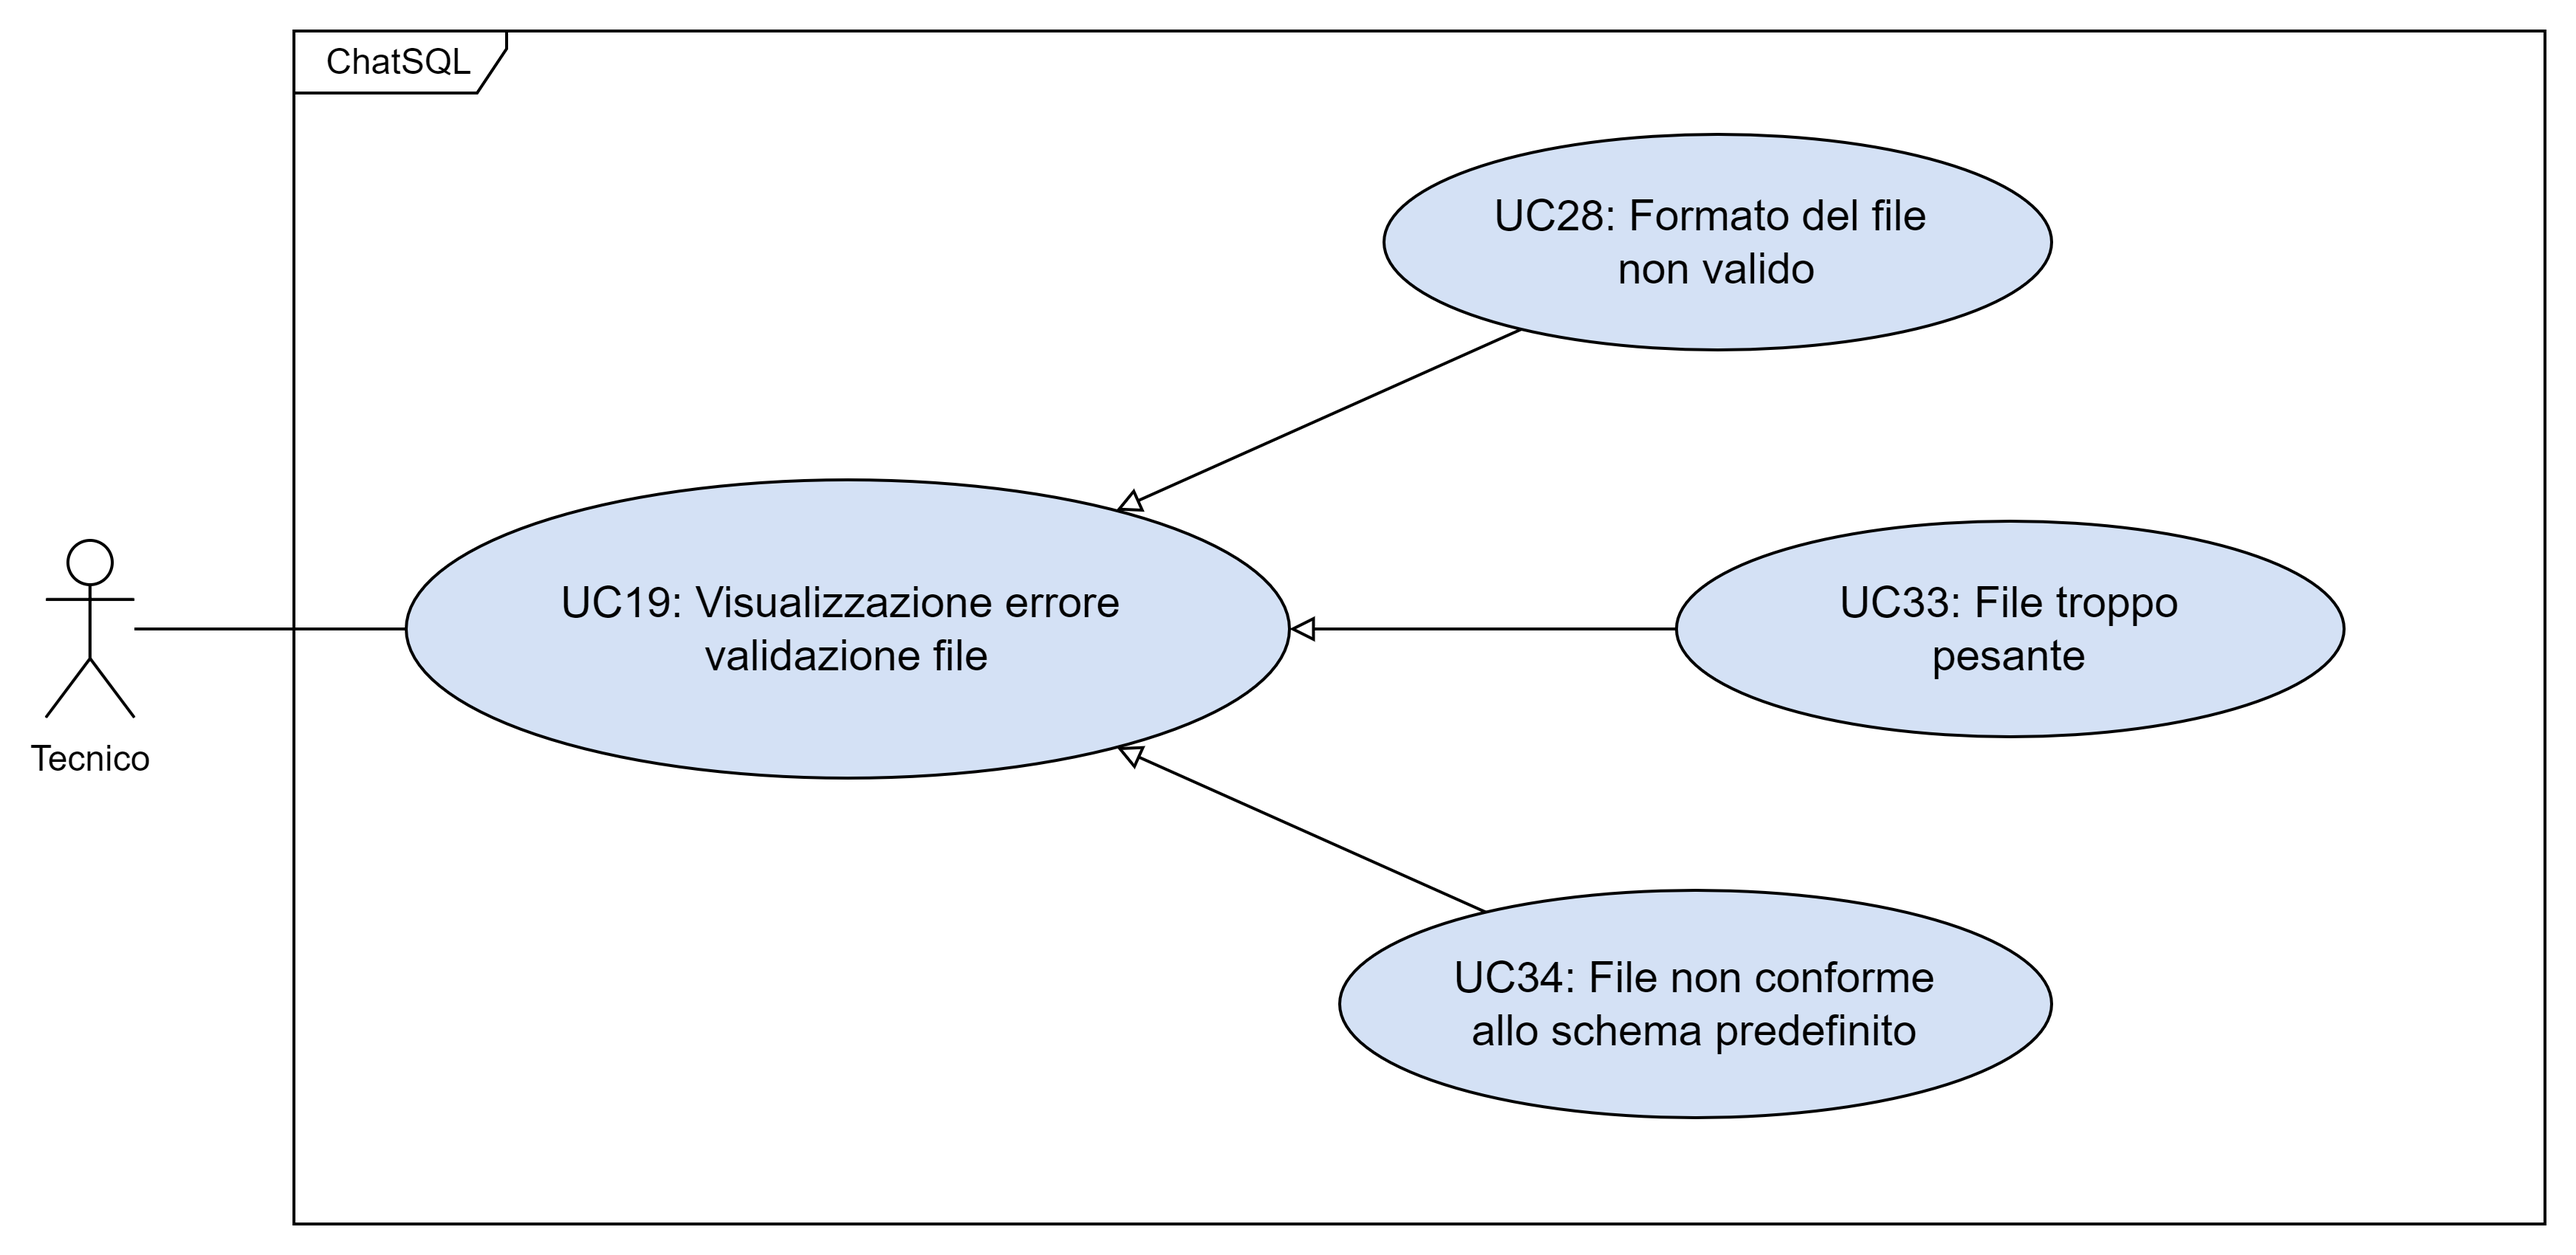
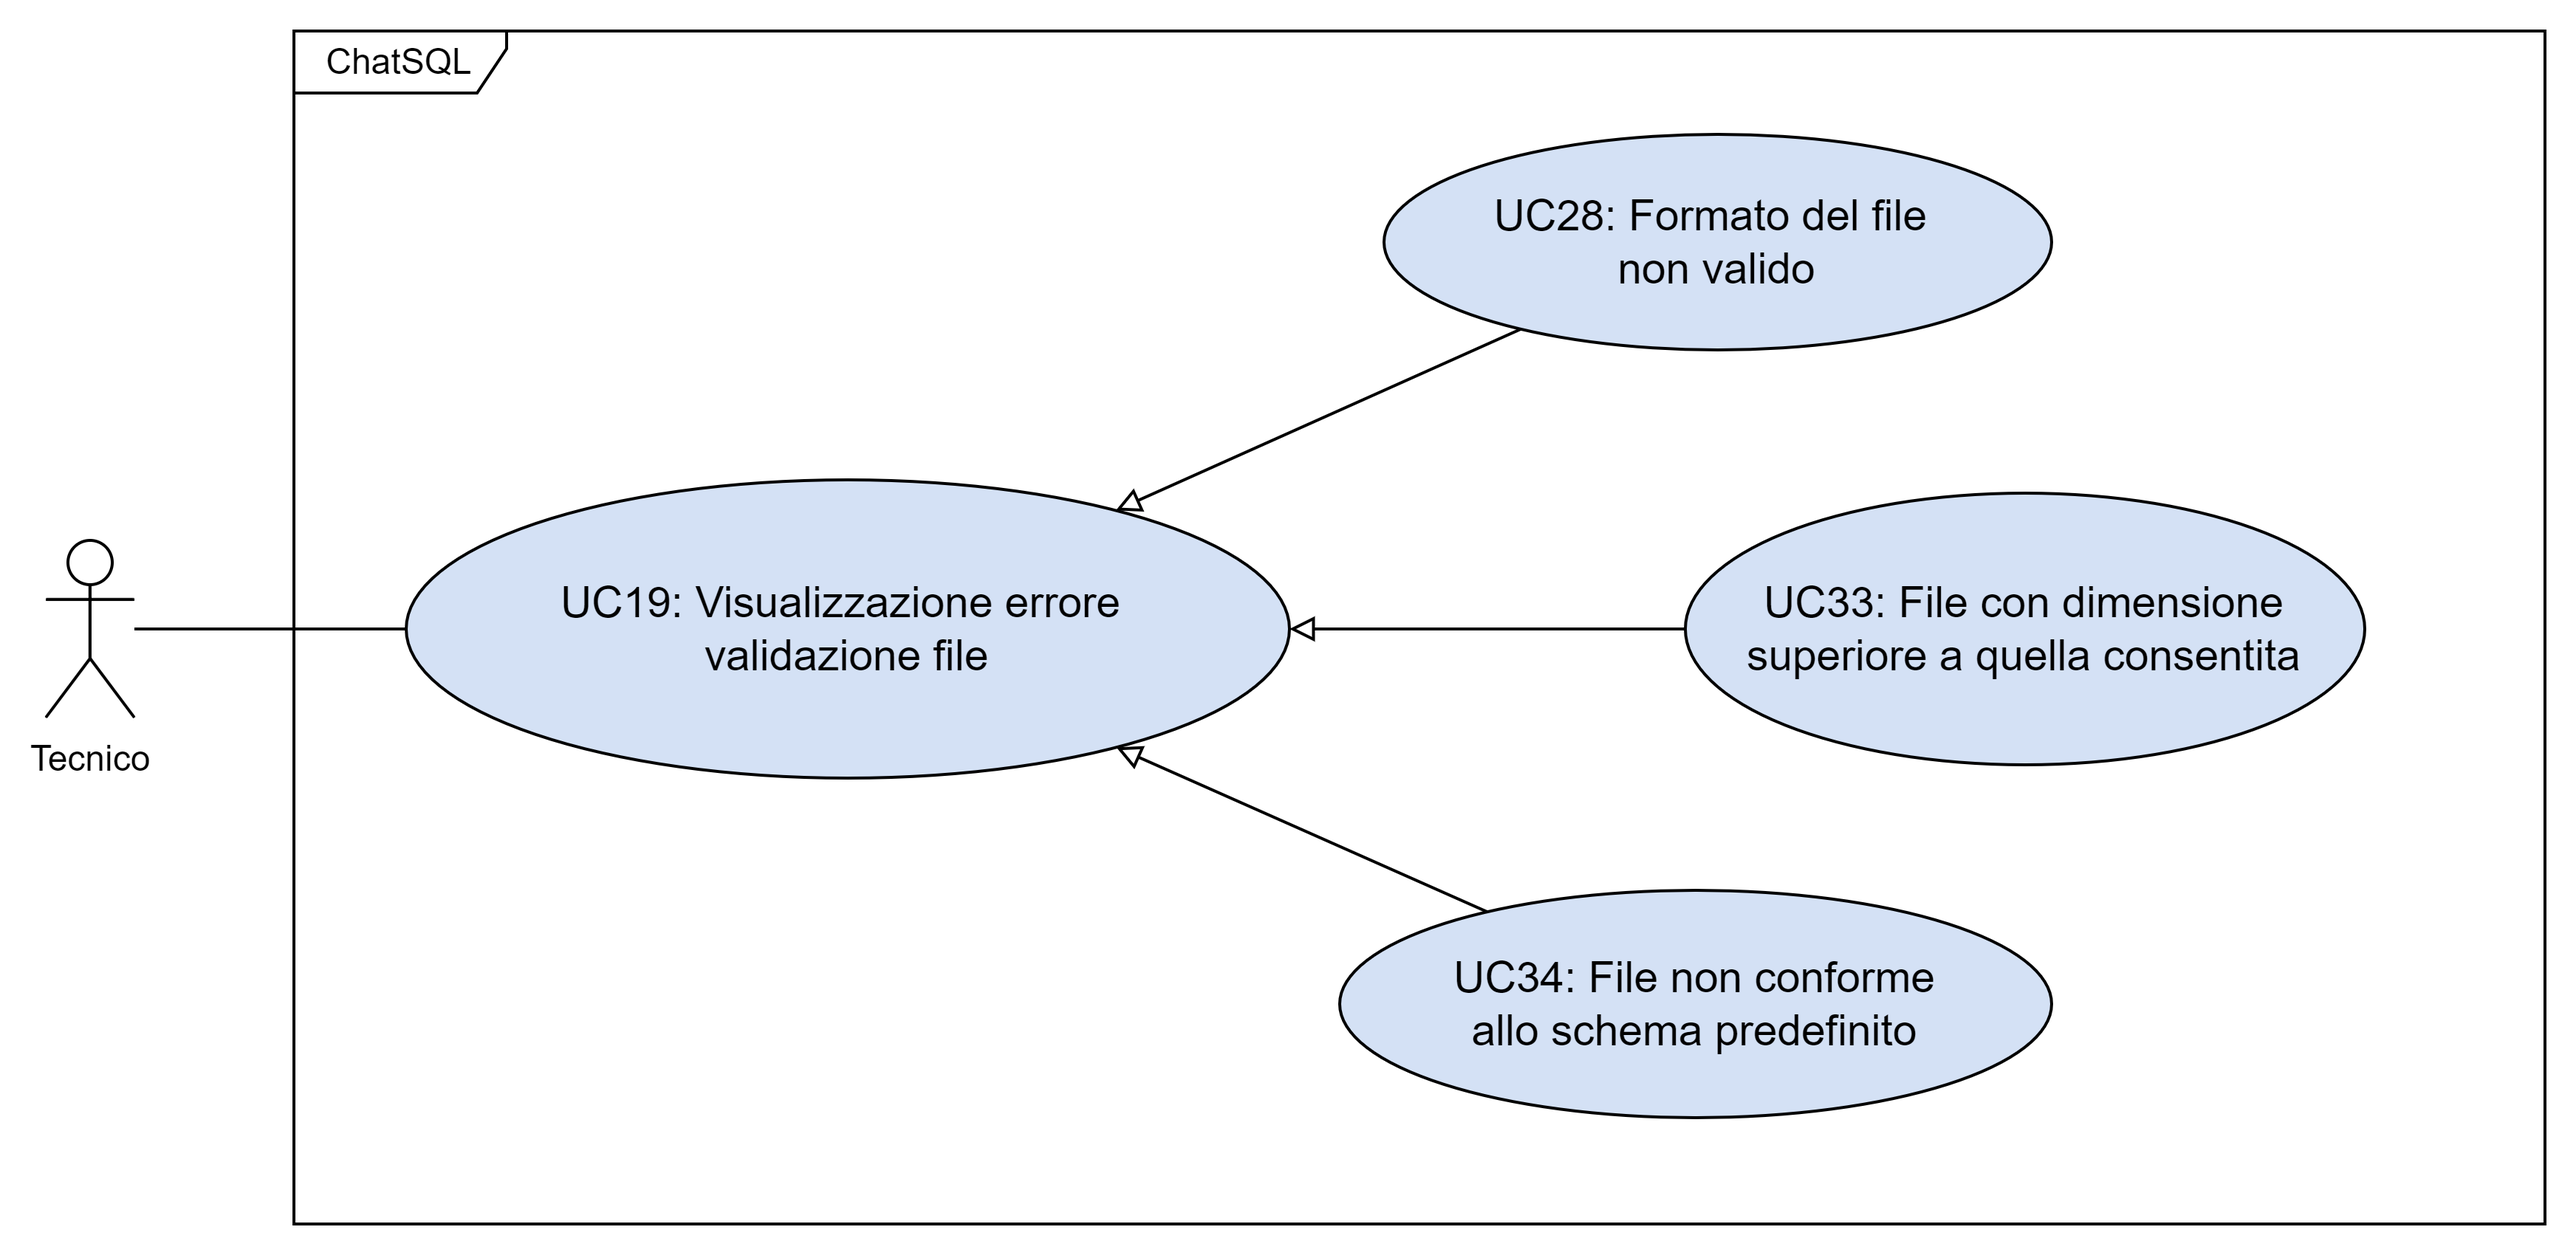
aggiornamento adr

diff --git a/sources/documents/2_RTB/AnalisiDeiRequisiti/requisiti.tex b/sources/documents/2_RTB/AnalisiDeiRequisiti/requisiti.tex
@@ -43,11 +43,11 @@
     \hline
 		\endlastfoot
 
-    \textbf{RF.O.1} & Il Tecnico deve poter effettuare il login. & \hyperref[UC1]{UC1}, Verbale esterno 2024-04-09, Verbale interno\\
+    \textbf{RF.O.1} & L'Utente deve poter effettuare il login. & \hyperref[UC1]{UC1}, Verbale esterno 2024-04-09, Verbale interno\\
     \hline
-    \textbf{RF.O.1.1} & Il Tecnico deve poter inserire uno username in fase di autenticazione. & \hyperref[UC1point1]{UC1.1}, Verbale interno\\
+    \textbf{RF.O.1.1} & L'Utente deve poter inserire uno username in fase di autenticazione. & \hyperref[UC1point1]{UC1.1}, Verbale interno\\
     \hline
-    \textbf{RF.O.1.2} & Il Tecnico deve poter inserire una password in fase di autenticazione. & \hyperref[UC1point2]{UC1.2}, Verbale interno\\
+    \textbf{RF.O.1.2} & L'Utente deve poter inserire una password in fase di autenticazione. & \hyperref[UC1point2]{UC1.2}, Verbale interno\\
     \hline
     \textbf{RF.O.2} & Il sistema deve restituire un messaggio d'errore in caso di fallimento del login. & \hyperref[UC2]{UC2}\\
     \hline
@@ -352,7 +352,7 @@ Di seguito sono illustrate le corrispondenze fonte - requisito, raggruppate per 
     % verbali
     Verbali esterni & RF.O.1, RF.D.7, RF.O.22, RF.D.40, RF.O.45, RF.O.46, RF.D.52 \\
     \hline
-    Verbali interni & RF.O.1, RF.O.1.1, RF.O.1.2, RF.O.23, RF.O.26, RF.O.36, RF.O.41, RF.O.47, RF.O.48, RF.O.49, RF.O.50, RF.O.51, RF.OP.53, RF.O.55, RF.O.56, RF.O.57, RF.OP.58, RF.O.59, RF.O.60, RF.O.61, RF.OP.62 \\
+    Verbali interni & RF.O.1, RF.O.1.1, RF.O.1.2, RF.O.23, RF.O.26, RF.O.36, RF.O.41, RF.O.47, RF.O.48, RF.O.49, RF.O.50, RF.O.51, RF.OP.53, RF.O.55, RF.O.56, RF.O.57, RF.OP.58, RF.O.59, RF.O.60, RF.D.61, RF.OP.62 \\
     \hline
     % casi d'uso
     \hyperref[UC1]{UC1} & RF.O.1 \\
@@ -541,9 +541,9 @@ Di seguito sono illustrate le corrispondenze fonte - requisito, raggruppate per 
     % capitolato
     
     % verbali
-    Verbali esterni & RV.O.1, RV.O.4 \\
+    Verbali esterni & RV.O.1, RV.O.5 \\
     \hline
-    Verbali interni & RV.O.2, RV.O.3, RV.O.5, RV.O.6, RV.O.7, RV.O.8, RV.O.9, RV.O.10, RV.O.11, RV.O.12, RV.O.13, RV.O.14, RV.O.15, RV.OP.16 \\
+    Verbali interni & RV.O.2, RV.O.3, RV.O.4, RV.O.6, RV.O.7, RV.O.8, RV.O.9, RV.O.10, RV.O.11, RV.O.12, RV.D.13, RV.O.14, RV.D.15, RV.OP.16 \\
   \end{longtable}
 \end{adjustwidth}
 \egroup
@@ -557,13 +557,13 @@ Di seguito sono illustrate le corrispondenze fonte - requisito, raggruppate per 
     \hline
 		\textbf{Requisito} & \textbf{Obbligatorio} & \textbf{Desiderabile} & \textbf{Opzionale} & \textbf{Totale} \\ 
     \hline
-    Funzionale & 65 & 3 & 5 & 73 \\
+    Funzionale & 70 & 4 & 7 & 81 \\
     \hline
-    Di qualità & 7 & 3 & 1 & 11 \\
+    Di qualità & 5 & 2 & 0 & 7 \\
     \hline 
-    Di vincolo & 17 & 2 & 2 & 21 \\
+    Di vincolo & 13 & 2 & 1 & 16 \\
     \hline
-    \textbf{Totale} & 89 & 8 & 8 & \textbf{105} \\ 
+    \textbf{Totale} & 88 & 8 & 8 & \textbf{104} \\ 
     \hline
   \end{tabular}
   \caption{Tabella di riepilogo dei requisiti}

diff --git a/sources/documents/2_RTB/AnalisiDeiRequisiti/registro_modifiche.tex b/sources/documents/2_RTB/AnalisiDeiRequisiti/registro_modifiche.tex
@@ -23,7 +23,8 @@
 		\endlastfoot
 
 		% IN ORDINE DALLA MODIFICA PIÙ RECENTE ALLA PIÙ VECCHIA
-  		1.0.0 & 2024-07-13 & \mattia & \mattia & Approvazione e rilascio del documento \\
+		1.0.1 & 2024-07-25 & \riccardo, \tommaso & \mattia & Aggiornamento post colloquio RTB \\
+  	\hline 1.0.0 & 2024-07-13 & \mattia & \mattia & Approvazione e rilascio del documento \\
 		\hline 0.2.0 & 2024-07-05 & \riccardo & \mattia & Revisione generale dei casi d'uso e requisiti \\
 		\hline 0.1.3 & 2024-06-24 & \riccardo, \marco, \raul & \mattia, \tommaso & Revisione requisiti funzionali \\
 		\hline 0.1.2 & 2024-06-23 & \raul & \marco, \mattia, \tommaso & Aggiunto \hyperref[UC25]{UC25} \\

diff --git a/sources/documents/2_RTB/AnalisiDeiRequisiti/usecase/uc13.tex b/sources/documents/2_RTB/AnalisiDeiRequisiti/usecase/uc13.tex
@@ -53,7 +53,7 @@ Il Tecnico vuole aggiungere un nuovo \glossario{dizionario dati} nell'applicazio
   \item Visualizzazione errore validazione file (\hyperref[UC19]{UC19}):
   \begin{itemize}
     \item Extension point: Errore nella validazione del file scelto come \glossario{dizionario dati};
-    \item Condition: Formato del file non valido, file troppo pesante, file non conforme allo schema predefinito.
+    \item Condition: Formato del file non valido, file con dimensione superiore a quella consentita, file non conforme allo schema predefinito.
   \end{itemize}
   \item Visualizzazione errore nome dizionario dati (\hyperref[UC31]{UC31}):
   \begin{itemize}

diff --git a/sources/documents/2_RTB/AnalisiDeiRequisiti/usecase/uc20.tex b/sources/documents/2_RTB/AnalisiDeiRequisiti/usecase/uc20.tex
@@ -52,6 +52,6 @@ Il Tecnico vuole modificare il file di configurazione di un \glossario{dizionari
   \item Visualizzazione errore validazione file (\hyperref[UC19]{UC19}):
   \begin{itemize}
     \item Extension point: Errore nella validazione del file;
-    \item Condition: Formato del file non valido, file troppo pesante, file non conforme allo schema predefinito.
+    \item Condition: Formato del file non valido, file con dimensione superiore a quella consentita, file non conforme allo schema predefinito.
   \end{itemize}
 \end{itemize}

diff --git a/sources/documents/2_RTB/AnalisiDeiRequisiti/usecase/uc3.tex b/sources/documents/2_RTB/AnalisiDeiRequisiti/usecase/uc3.tex
@@ -42,7 +42,7 @@ L'Utente desidera ricevere un \glossario{prompt} in risposta alla sua richiesta.
 \paragraph*{Inclusioni}
 \begin{itemize}
   \item Selezione \glossario{dizionario dati} (\hyperref[UC4]{UC4});
-  \item Inserimento richiesta in linguaggio naturale (\hyperref[UC3]{UC3});
+  \item Inserimento richiesta in linguaggio naturale (\hyperref[UC5]{UC5});
   \item Selezione lingua (\hyperref[UC7]{UC7});
   \item Selezione DBMS (\hyperref[UC26]{UC26}).
 \end{itemize}

diff --git a/sources/model/global.tex b/sources/model/global.tex
@@ -33,7 +33,7 @@
 
 % La versione dei documenti deve essere definita qui in global, perchè serve anche agli altri documenti
 \newcommand{\VersioneNP}{0.0.15}  % Norme di Progetto
-\newcommand{\VersioneAR}{1.0.0}  % Analisi dei Requisiti
+\newcommand{\VersioneAR}{1.0.1}  % Analisi dei Requisiti
 \newcommand{\VersionePQ}{0.2.0}  % Piano di Qualifica
 \newcommand{\VersioneG}{1.0.1}   % Glossario
 \newcommand{\VersionePP}{0.1.9}  % Piano di Progetto

diff --git a/sources/documents/2_RTB/AnalisiDeiRequisiti/usecase/uc1.tex b/sources/documents/2_RTB/AnalisiDeiRequisiti/usecase/uc1.tex
@@ -22,7 +22,7 @@ Utente
 \paragraph*{Postcondizioni}
 \begin{itemize}
   \item La procedura di autenticazione si è conclusa con successo;
-  \item L'Utente visualizza le funzionalità aggiuntive nell'interfaccia.  
+  \item L'Utente acquisisce il ruolo di Tecnico e visualizza le funzionalità aggiuntive nell'interfaccia.  
 \end{itemize}
 
 \paragraph*{Trigger}

diff --git a/sources/documents/2_RTB/AnalisiDeiRequisiti/usecase/uc19.tex b/sources/documents/2_RTB/AnalisiDeiRequisiti/usecase/uc19.tex
@@ -33,6 +33,6 @@ Tecnico
 \paragraph*{Specializzazioni}
 \begin{itemize}
   \item Formato del file non valido (\hyperref[UC28]{UC28});
-  \item File troppo pesante (\hyperref[UC33]{UC33});
+  \item File con dimensione superiore a quella consentita (\hyperref[UC33]{UC33});
   \item File non conforme allo schema predefinito (\hyperref[UC34]{UC34}).
 \end{itemize}

diff --git a/sources/documents/2_RTB/AnalisiDeiRequisiti/usecase/uc33.tex b/sources/documents/2_RTB/AnalisiDeiRequisiti/usecase/uc33.tex
@@ -1,4 +1,4 @@
-\subsubsection{UC33 - File troppo pesante}\label{UC33}
+\subsubsection{UC33 - File con dimensione superiore a quella consentita}\label{UC33}
 \paragraph*{Descrizione}
 Poiché la dimensione del file inserito dal Tecnico supera i limiti, il sistema restituisce un messaggio d'errore.
 

diff --git a/sources/documents/2_RTB/AnalisiDeiRequisiti/usecase/uc36.tex b/sources/documents/2_RTB/AnalisiDeiRequisiti/usecase/uc36.tex
@@ -7,7 +7,7 @@
 \end{figure}
 
 \paragraph*{Descrizione}
-L'Utente effettua una ricerca tra i \glossario{dizionari dati} presenti nel sistema.
+L'Utente effettua una ricerca, per nome e per descrizione, tra i \glossario{dizionari dati} presenti nel sistema.
 
 \paragraph*{Attori principali}
 Utente
